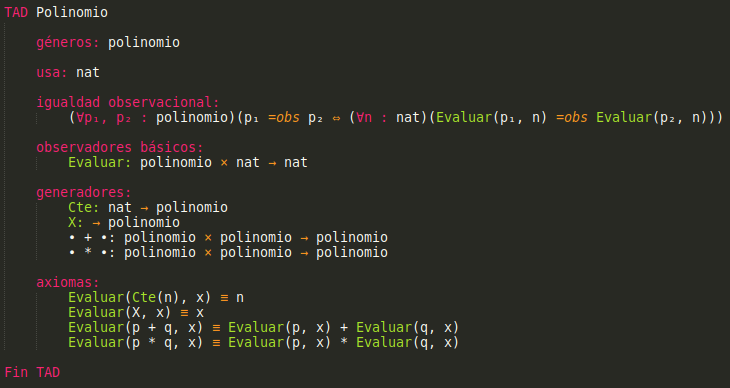
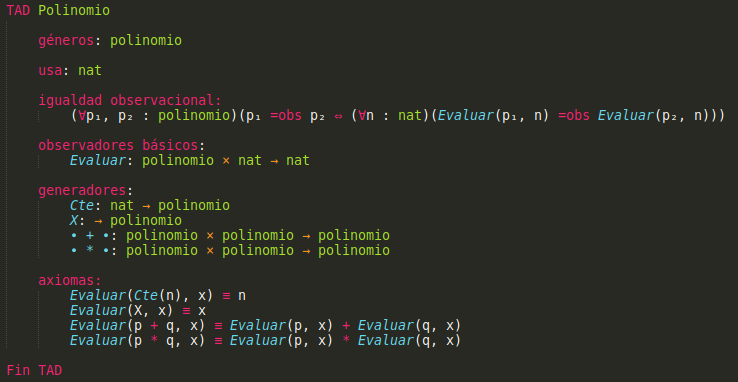
Updated to sublime-syntax format

diff --git a/README.md b/README.md
@@ -1,6 +1,6 @@
 # Sintaxis para escribir TADs en Sublime Text
 
-Una traducción casi exacta de la sintaxis de [este paquete](https://github.com/luisbustamante097/language-tad-aed2) para Atom. Solo cambié algunos colores para que queden bien en Sublime.
+Un paquete de sublime text para escribir los TADs de Algo2.
 
 
 ![Imagen](./imagenes/ejemplo.png)
@@ -9,17 +9,12 @@ Una traducción casi exacta de la sintaxis de [este paquete](https://github.com/
 ## Instalación
 
 1. Instalar [Sublime Text 3](https://www.sublimetext.com/3).
-2. Descargar el archivo `tad.tmLanguage`.
+2. Descargar el archivo `TAD.sublime-syntax`.
 3. Ponerlo en la carpeta de Sublime `Packages/User`. Para abrirla en el explorador pueden usar el menú de Sublime: `Preferences > Browse Packages...`.
 
-## Snippets?
+Si habían instalado el archivo `tad.tmLanguage`, bórrenlo.
 
-No son tan fáciles de traducir como la sintaxis. Para los símbolos yo uso y recomiendo el paquete [`UnicodeMath`](https://github.com/mvoidex/UnicodeMath). Faltarían algunos snippets como los esqueletos, y capaz en algún momento los meto.
-
-## Modificaciones
-
-También subí el archivo `tad.YAML-tmLanguage`, que pueden usar para modificar la definción de sintaxis de forma un poco más simple. Está escrito en el lenguage de TextMate, que es por estar deprecated en sublime es complicado encontrar documentación. Capaz les sirve [esta página](https://docs.sublimetext.io/reference/syntaxdefs_legacy.html).
 
 ## Visual Studio Code
 
-Si alguien tiene ganas puede crear una extensión de vscode usando el archivo `tad.tmLanguage` y siguiendo los pasos en este [thread de StackOverflow](https://stackoverflow.com/questions/30687783/create-custom-language-in-visual-studio-code).
+Si alguien tiene ganas puede crear una extensión de vscode usando el archivo `tad.tmLanguage` en la carpeta `legacy` y siguiendo los pasos en este [thread de StackOverflow](https://stackoverflow.com/questions/30687783/create-custom-language-in-visual-studio-code).
